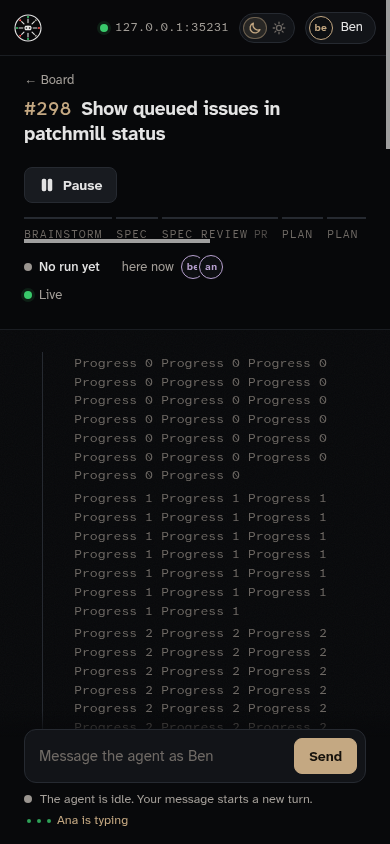
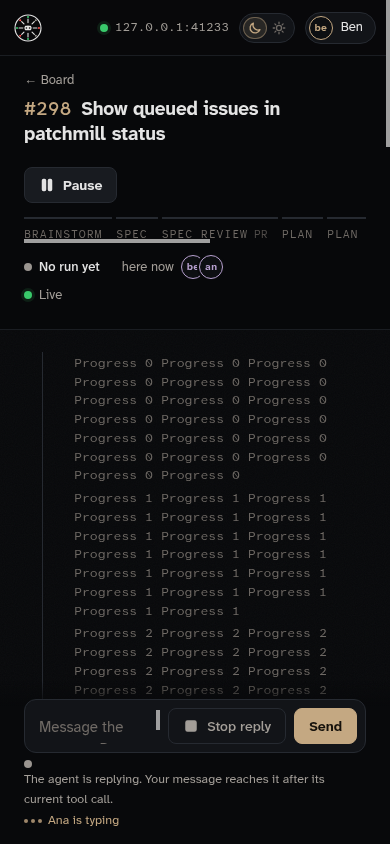
fix(web): keep the typing name readable and win the dot and chip styles
The typing slot keeps room for a short name while the agent replies,
and the dot and +N chip rules now override the older thread rules.

Refs #386

Changed region(s): [[0.0615, 0.8009, 0.9231, 0.9858], [0.4923, 0.0308, 0.5231, 0.0616]]

diff --git a/web/styles/issue.css b/web/styles/issue.css
@@ -162,7 +162,8 @@
   height: 24px;
   overflow: hidden;
 }
-.av.av-more {
+/* .presence raises these rules over .av.sm in thread.css. */
+.presence .av.av-more {
   --who: var(--faint);
   width: 30px;
   height: 24px;
@@ -292,8 +293,9 @@
   color: var(--dim);
 }
 /* The typing slot is always present and has a fixed height. */
+/* The slot keeps room for a short name; the status text wraps instead. */
 .typing {
-  flex: 1;
+  flex: 1 0 13em;
   min-width: 0;
   height: 19px;
   display: inline-flex;
@@ -310,22 +312,24 @@
   overflow: hidden;
   text-overflow: ellipsis;
 }
-.dots {
+/* .typing raises the dot rules over the thread .dots in thread.css. */
+.typing .dots {
   display: inline-flex;
   gap: 3px;
   flex: none;
 }
-.dots i {
+.typing .dots i {
+  margin: 0;
   width: 4px;
   height: 4px;
   border-radius: 50%;
   background: currentColor;
   animation: typing-pulse 1.2s ease-in-out infinite;
 }
-.dots i:nth-child(2) {
+.typing .dots i:nth-child(2) {
   animation-delay: 0.2s;
 }
-.dots i:nth-child(3) {
+.typing .dots i:nth-child(3) {
   animation-delay: 0.4s;
 }
 @keyframes typing-pulse {
@@ -338,7 +342,7 @@
   }
 }
 @media (prefers-reduced-motion: reduce) {
-  .dots i {
+  .typing .dots i {
     animation: none;
     opacity: 0.8;
   }
